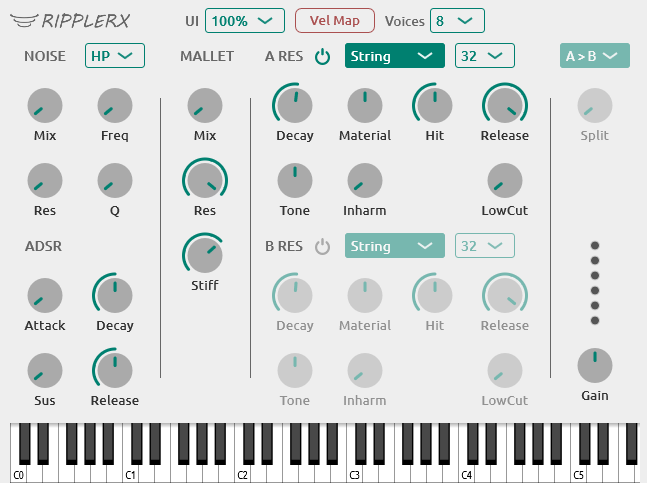
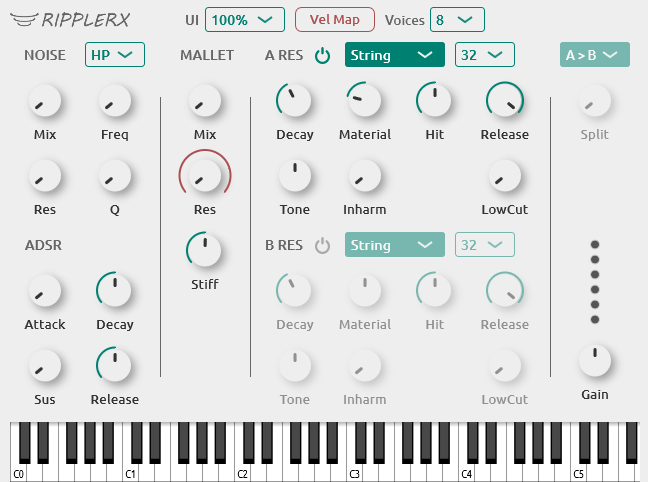
UI improvs

diff --git a/Source/ui/Rotary.cpp b/Source/ui/Rotary.cpp
@@ -130,27 +130,32 @@ void Rotary::mouseDrag(const juce::MouseEvent& e) {
 
 void Rotary::draw_rotary_slider(juce::Graphics& g, float slider_pos) {
     auto bounds = getBounds();
-    const float radius = bounds.getHeight() / 2.0f - 20.0f;
+    const float radius = 16.0f;
     const float angle = -deg130 + slider_pos * (deg130 - -deg130);
 
-    g.setColour(Colour(0xffaaaaaa));
-    g.fillEllipse(bounds.getWidth()/2.0f-radius, bounds.getHeight()/2.0f-radius, radius*2.0f, radius*2.0f);
-    g.setColour(Colour(globals::COLOR_ACTIVE));
+    juce::DropShadow shadow(Colour(0xff888888), 15, {4, 4}); // (Color, Blur Radius, Offset)
+    juce::Path circlePath;
+    circlePath.addEllipse(bounds.getWidth()/2.0f-radius, bounds.getHeight()/2.0f-radius-4.0f, radius*2.0f, radius*2.0f); // x, y, width, height
+    shadow.drawForPath(g, circlePath);
+    g.setColour(Colour(globals::COLOR_BACKGROUND));
+    g.fillPath(circlePath);
 
+    g.setColour(Colour(globals::COLOR_ACTIVE));
     if ((isSymmetric && slider_pos != 0.5f) || (!isSymmetric && slider_pos)) {
         juce::Path arc;
-        arc.addCentredArc(bounds.getWidth() / 2.0f, bounds.getHeight() / 2.0f, radius + 4.0f, radius + 4.0f, 0, isSymmetric ? 0 : -deg130, angle, true);
-        g.strokePath(arc, PathStrokeType(3.0, PathStrokeType::JointStyle::curved, PathStrokeType::rounded));
+        arc.addCentredArc(bounds.getWidth() / 2.0f, bounds.getHeight() / 2.0f - 4.0f, radius + 2.0f, radius + 2.0f, 0, isSymmetric ? 0 : -deg130, angle, true);
+        g.strokePath(arc, PathStrokeType(2.0, PathStrokeType::JointStyle::curved, PathStrokeType::rounded));
     }
 
+    g.setColour(Colour(globals::COLOR_NEUTRAL));
     juce::Path p;
     p.addLineSegment (juce::Line<float>(0.0f, -5.0f, 0.0f, -radius + 5.0f), 0.1f);
     juce::PathStrokeType(3.0f, PathStrokeType::JointStyle::curved, PathStrokeType::rounded).createStrokedPath(p, p);
-    g.fillPath (p, juce::AffineTransform::rotation (angle).translated(bounds.getWidth() / 2.0f, bounds.getHeight() / 2.0f));
+    g.fillPath (p, juce::AffineTransform::rotation (angle).translated(bounds.getWidth() / 2.0f, bounds.getHeight() / 2.0f - 4.0f));
 
     if (velId.isNotEmpty() && audioProcessor.velMap) {
         g.setColour(Colour(globals::COLOR_VEL).withAlpha(0.5f));
-        g.fillEllipse(bounds.getWidth()/2.0f-radius, bounds.getHeight()/2.0f-radius, radius*2.0f, radius*2.0f);
+        g.fillEllipse(bounds.getWidth()/2.0f-radius, bounds.getHeight()/2.0f-radius-4.0f, radius*2.0f, radius*2.0f);
     }
 }
 
@@ -163,7 +168,7 @@ void Rotary::draw_vel_arc(juce::Graphics& g, float slider_pos, float vel_pos) co
 
     if (vel_pos && slider_angle < deg130) {
         juce::Path arc;
-        arc.addCentredArc(bounds.getWidth() / 2.0f, bounds.getHeight() / 2.0f, radius + 8.0f, radius + 8.0f, 0, slider_angle, vel_angle, true);
+        arc.addCentredArc(bounds.getWidth() / 2.0f, bounds.getHeight() / 2.0f - 4.0f, radius + 8.0f, radius + 8.0f, 0, slider_angle, vel_angle, true);
         g.strokePath(arc, PathStrokeType(2.0, PathStrokeType::JointStyle::curved, PathStrokeType::rounded));
     }
 }
